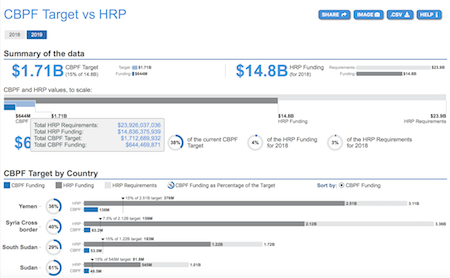
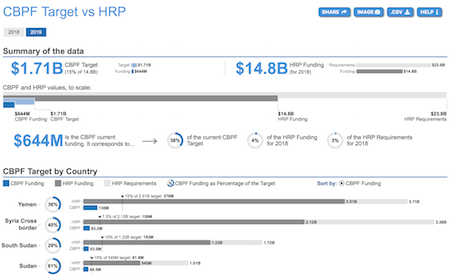
Updated files

diff --git a/README.md b/README.md
@@ -93,6 +93,14 @@ Chart for the Country-based Pooled Funds (CBPF) allocations in the Business Inte
 
 This chart shows a timeline with the allocations for a selected period. See the [chart's page](https://github.com/CBPFGMS/cbpfgms.github.io/tree/master/pbiuac) for more information.
 
+- **PFBI: CBPF Target versus HRP**
+
+Chart for the Country-based Pooled Funds (CBPF) Target versus HRP in the Business Intelligence Portal at the OCHA PFBI.
+
+[<img alt="GMS Landing Page" src="https://cbpfgms.github.io/img/thumbnails/pbihrp.png" width="450">](https://github.com/CBPFGMS/cbpfgms.github.io/tree/master/pbiuac)
+
+This chart shows HRP requirements, HRP funding, CBPF target and CBPF funding for each Fund. See the [chart's page](https://github.com/CBPFGMS/cbpfgms.github.io/tree/master/pbihrp) for more information.
+
 - **GMS Landing Page**
 
 Chart for the Grant Management System landing page.
